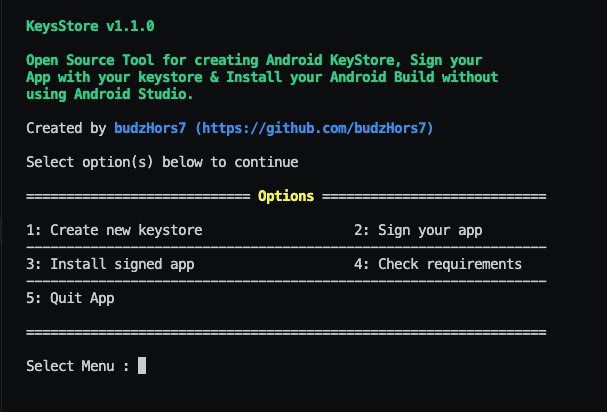
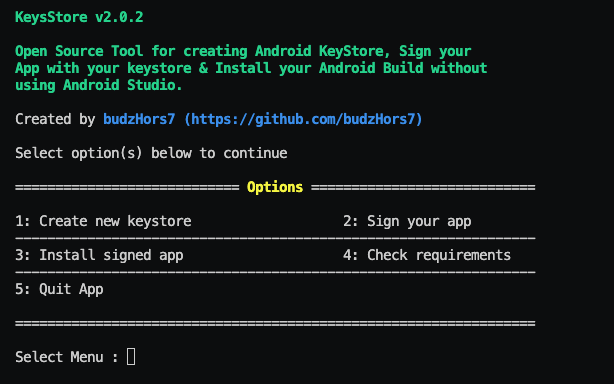
added download fixture to download bundletool automatic

diff --git a/utils/checkRequirements.py b/utils/checkRequirements.py
@@ -1,7 +1,121 @@
 import os
+import requests
+import time
+from datetime import timedelta
 from colorama import Fore, Style
 
 from utils.clearWindow import resetWindow
+
+def download_bundletool():
+    resetWindow()
+    
+    print("======================= " + Fore.YELLOW + '\033[1m' + "Download Bundletool" + Style.RESET_ALL + " =======================")
+    print("")
+    
+    # Create lib directory if it doesn't exist
+    if not os.path.exists("./lib"):
+        os.makedirs("./lib")
+    
+    # Get latest release info from GitHub API
+    print("Fetching latest release information...")
+    api_url = "https://api.github.com/repos/google/bundletool/releases/latest"
+    
+    try:
+        response = requests.get(api_url)
+        response.raise_for_status()  # Raise an exception for HTTP errors
+        
+        release_data = response.json()
+        latest_version = release_data["tag_name"]
+        
+        # Find the .jar asset
+        jar_asset = None
+        for asset in release_data["assets"]:
+            if asset["name"].endswith(".jar"):
+                jar_asset = asset
+                break
+        
+        if not jar_asset:
+            print(Fore.RED + "Error: Could not find bundletool.jar in the latest release." + Style.RESET_ALL)
+            input("\nPress Enter/Return to continue...")
+            return False
+        
+        download_url = jar_asset["browser_download_url"]
+        file_size_bytes = jar_asset["size"]
+        file_size_mb = file_size_bytes / (1024 * 1024)
+        
+        print(f"\nFound bundletool {latest_version}")
+        print(f"File size: {file_size_mb:.2f} MB")
+        
+        # Confirm download
+        confirmation = input("\nDownload this version? (y/n): ")
+        if confirmation.lower() != 'y':
+            print("\nDownload canceled.")
+            input("\nPress Enter/Return to continue...")
+            return False
+        
+        print(f"\nDownloading bundletool {latest_version}...\n")
+        
+        # Start download with progress tracking
+        start_time = time.time()
+        response = requests.get(download_url, stream=True)
+        response.raise_for_status()
+        
+        downloaded_bytes = 0
+        chunk_size = 1024 * 8  # 8KB chunks
+        
+        output_file_path = "./lib/bundletool.jar"
+        
+        with open(output_file_path, 'wb') as file:
+            for chunk in response.iter_content(chunk_size=chunk_size):
+                if chunk:
+                    file.write(chunk)
+                    downloaded_bytes += len(chunk)
+                    
+                    # Calculate progress and ETA
+                    progress = (downloaded_bytes / file_size_bytes) * 100
+                    elapsed_time = time.time() - start_time
+                    
+                    if downloaded_bytes > 0 and elapsed_time > 0:
+                        download_speed = downloaded_bytes / elapsed_time  # bytes per second
+                        eta_seconds = (file_size_bytes - downloaded_bytes) / download_speed if download_speed > 0 else 0
+                        eta = str(timedelta(seconds=int(eta_seconds)))
+                        
+                        # Create progress bar
+                        bar_length = 30
+                        filled_length = int(bar_length * downloaded_bytes // file_size_bytes)
+                        bar = '█' * filled_length + '░' * (bar_length - filled_length)
+                        
+                        # Calculate download speed in MB/s
+                        speed_mb = download_speed / (1024 * 1024)
+                        
+                        # Print progress with carriage return to update in place
+                        print(f"\r[{bar}] {progress:.1f}% | {downloaded_bytes/(1024*1024):.2f}/{file_size_mb:.2f} MB | {speed_mb:.2f} MB/s | ETA: {eta}", end='')
+        
+        # Print newline after download completes
+        print("\n")
+        print(Fore.GREEN + f"Download complete! Saved to {output_file_path}" + Style.RESET_ALL)
+        
+        # Verify download
+        if os.path.exists(output_file_path):
+            downloaded_size = os.path.getsize(output_file_path)
+            if downloaded_size == file_size_bytes:
+                print(Fore.GREEN + "\nFile verification successful!" + Style.RESET_ALL)
+                input("\nPress Enter/Return to continue...")
+                return True
+            else:
+                print(Fore.RED + "Error: File size mismatch. Download may be incomplete." + Style.RESET_ALL)
+                input("\nPress Enter/Return to continue...")
+                return False
+    
+    except requests.exceptions.RequestException as e:
+        print(Fore.RED + f"\nError during download: {str(e)}" + Style.RESET_ALL)
+        input("\nPress Enter/Return to continue...")
+        return False
+    
+    except Exception as e:
+        print(Fore.RED + f"\nUnexpected error: {str(e)}" + Style.RESET_ALL)
+        input("\nPress Enter/Return to continue...")
+        return False
 
 def checkPackages():
     resetWindow()
@@ -18,9 +132,10 @@ def checkPackages():
     
     if (javaCommand < 1):
         print(Fore.GREEN + "\nFound" + Style.RESET_ALL)
-
     else:
         print(Fore.RED + "\nNot Found" + Style.RESET_ALL)
+        print("\nPlease install Java Development Kit (JDK) from:")
+        print(Fore.BLUE + "https://www.oracle.com/java/technologies/downloads/" + Style.RESET_ALL)
 
     print("-----------------------------------------------------------------")
     print('\033[1m' + "2: Adb - Android Debug Bridge")
@@ -30,24 +145,45 @@ def checkPackages():
     
     if (adbCommand < 1):
         print(Fore.GREEN + "\nFound" + Style.RESET_ALL)
-
     else:
         print(Fore.RED + "\nNot Found" + Style.RESET_ALL)
+        print("\nPlease install Android Debug Bridge (ADB) from:")
+        print(Fore.BLUE + "https://developer.android.com/tools/releases/platform-tools" + Style.RESET_ALL)
 
     print("-----------------------------------------------------------------")
     print('\033[1m' + "3: Bundletool")
     print("")
 
-    adbCommand = os.system("java -jar ./lib/bundletool.jar version")
-    
-    if (adbCommand < 1):
-        print(Fore.GREEN + "\nFound" + Style.RESET_ALL)
+    # Check if lib directory exists
+    if not os.path.exists("./lib"):
+        os.makedirs("./lib")
 
+    bundletool_exists = os.path.exists("./lib/bundletool.jar")
+    
+    if bundletool_exists:
+        bundletoolCommand = os.system("java -jar ./lib/bundletool.jar version")
+        
+        if (bundletoolCommand < 1):
+            print(Fore.GREEN + "\nFound" + Style.RESET_ALL)
+        else:
+            print(Fore.RED + "\nFile exists but unable to execute" + Style.RESET_ALL)
+            print("\nThe bundletool.jar file might be corrupted. Consider downloading again.")
     else:
         print(Fore.RED + "\nNot Found" + Style.RESET_ALL)
-
+        print("\nBundletool is required but not found in the lib directory.")
+    
     print("-----------------------------------------------------------------")
-    input("Press Enter/Return to continue...")
+    print("Options:")
     print("")
-    from app import Welcome
-    Welcome("")
+    print("1: Download Bundletool       2: Return to main menu")
+    print("")
+    
+    choice = input("Select option: ")
+    
+    if choice == "1":
+        download_bundletool()
+        # Return to check requirements after download
+        checkPackages()
+    else:
+        from app import Welcome
+        Welcome("")

diff --git a/app.py b/app.py
@@ -11,7 +11,7 @@ from utils.validationInput import InputValidation
 def Welcome(error: str):
     resetWindow()
 
-    print(Fore.GREEN + '\033[1m' + "KeysStore v1.1.0")
+    print(Fore.GREEN + '\033[1m' + "KeysStore v2.0.2")
     print(Fore.GREEN + '\033[1m' + "\nOpen Source Tool for creating Android KeyStore, Sign your \nApp with your keystore & Install your Android Build without \nusing Android Studio.")
     print(Style.RESET_ALL)
 
@@ -65,4 +65,5 @@ def Welcome(error: str):
     else:
         Welcome("Wrong Selection, only 1-5 available as options.")
 
-Welcome("")
+if __name__ == "__main__":
+    Welcome("")

diff --git a/utils/signApp.py b/utils/signApp.py
@@ -1,5 +1,4 @@
-import os
-from os import path, makedirs
+from os import path, makedirs, system
 from colorama import Fore, Style
 
 from utils.clearWindow import resetWindow
@@ -103,7 +102,7 @@ def signYourApp(error: str):
 
     command = "java -jar ./lib/bundletool.jar build-apks --bundle=" + buildLocation + " --output=./output/signed/" + buildName + ".apks --ks=" + keyLocation + " --ks-pass=pass:" + keyAliasPass + " --ks-key-alias=" + keyAliasName
 
-    generateNewSignedCommand = os.system(command)
+    generateNewSignedCommand = system(command)
 
     from app import Welcome
 

diff --git a/utils/createNewKeyStore.py b/utils/createNewKeyStore.py
@@ -1,5 +1,4 @@
-import os
-from os import path, makedirs
+from os import path, makedirs, system
 from colorama import Fore, Style
 
 from utils.clearWindow import resetWindow
@@ -57,7 +56,7 @@ def newKeyStore(error: str):
     print("")
     command = "keytool -genkey -v -keystore ./output/keys/" + keyName + ".keystore -alias " + alias + " -keyalg RSA -keysize 2048 -validity " + validity
 
-    rValue = os.system(command)
+    rValue = system(command)
 
     from app import Welcome
     

diff --git a/utils/installApp.py b/utils/installApp.py
@@ -1,4 +1,4 @@
-import os
+from os import system
 from colorama import Fore, Style
 
 from utils.clearWindow import resetWindow
@@ -45,7 +45,7 @@ def installAppToDevice(error: str):
     print("")
     command = "java -jar ./lib/bundletool.jar install-apks --apks=" + appLocation
 
-    installApp = os.system(command)
+    installApp = system(command)
 
     from app import Welcome
 

diff --git a/README.md b/README.md
@@ -38,7 +38,8 @@ Install python requirements
 
 To run the program
 
-> Make sure you've downloaded [Bundletool](https://github.com/google/bundletool/releases), rename the file to bundletool.jar & insert the file in the **lib** folder.
+> Make sure you've downloaded [Bundletool](https://github.com/google/bundletool/releases). Select option 4 (**check requirements**) to check if the bundletool is already downloaded or manually check the **lib** folder if the bundletool exist.
+> If it does not exist, select the **"Download Bundletool"** to download the latest bundletool available.
 
 ***Windows***
 
